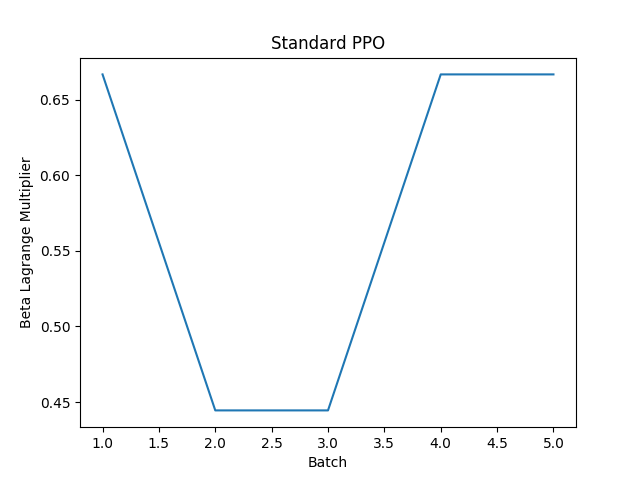
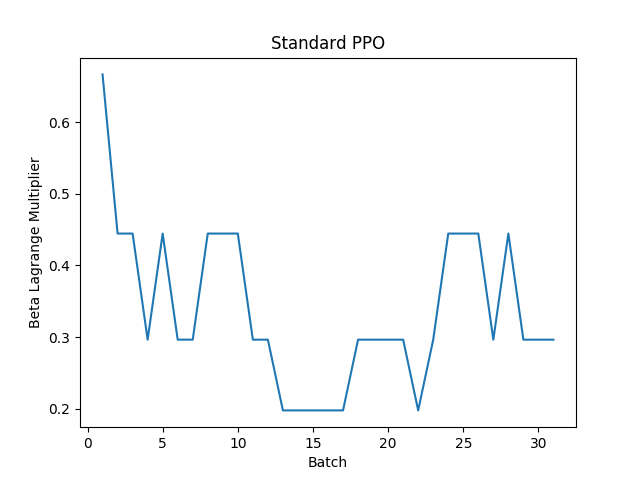
tweeking risk

diff --git a/src/train.py b/src/train.py
@@ -346,7 +346,7 @@ def main(env_name, num_episodes, gamma, lam, kl_targ, batch_size, hid1_mult, pol
     #env = wrappers.Monitor(env, aigym_path, force=True)
     scaler = Scaler(obs_dim)
     val_func = NNValueFunction(obs_dim, hid1_mult)
-    policy = Policy(obs_dim, act_dim, kl_targ, hid1_mult, policy_logvar, risk_targ,'VaR', batch_size, 99)
+    policy = Policy(obs_dim, act_dim, kl_targ, hid1_mult, policy_logvar, risk_targ,'VaR', batch_size, 1)
     # run a few episodes of untrained policy to initialize scaler:
     run_policy(env, policy, scaler, logger, episodes=5)
     episode = 0
@@ -362,11 +362,14 @@ def main(env_name, num_episodes, gamma, lam, kl_targ, batch_size, hid1_mult, pol
         add_disc_sum_rew(trajectories, gamma, scaler.mean_rew, np.sqrt(scaler.var_rew))  # calculated discounted sum of Rs
         add_gae(trajectories, gamma, lam, scaler.mean_rew, np.sqrt(scaler.var_rew))  # calculate advantage
         disc0 = [t['disc_sum_rew'][0] for t in trajectories]
+        print('Discounted returns from state 0', disc0)
+        rew_nodisc0 = [np.sum(t['rewards']) for t in trajectories]
+        print('Non discounted returns from state 0', rew_nodisc0)
         # concatenate all episodes into single NumPy arrays
         observes, actions, advantages, disc_sum_rew = build_train_set(trajectories)
         # add various stats to training log:
         log_batch_stats(observes, actions, advantages, disc_sum_rew, logger, episode)
-        policy.update(observes, actions, advantages, disc_sum_rew, logger)  # update policy
+        policy.update(observes, actions, advantages, disc0, logger)  # update policy
         val_func.fit(observes, disc_sum_rew, logger)  # update value function
         logger.write(display=True)  # write logger results to file and stdout
         kl_terms = np.append(kl_terms,policy.check_kl)
